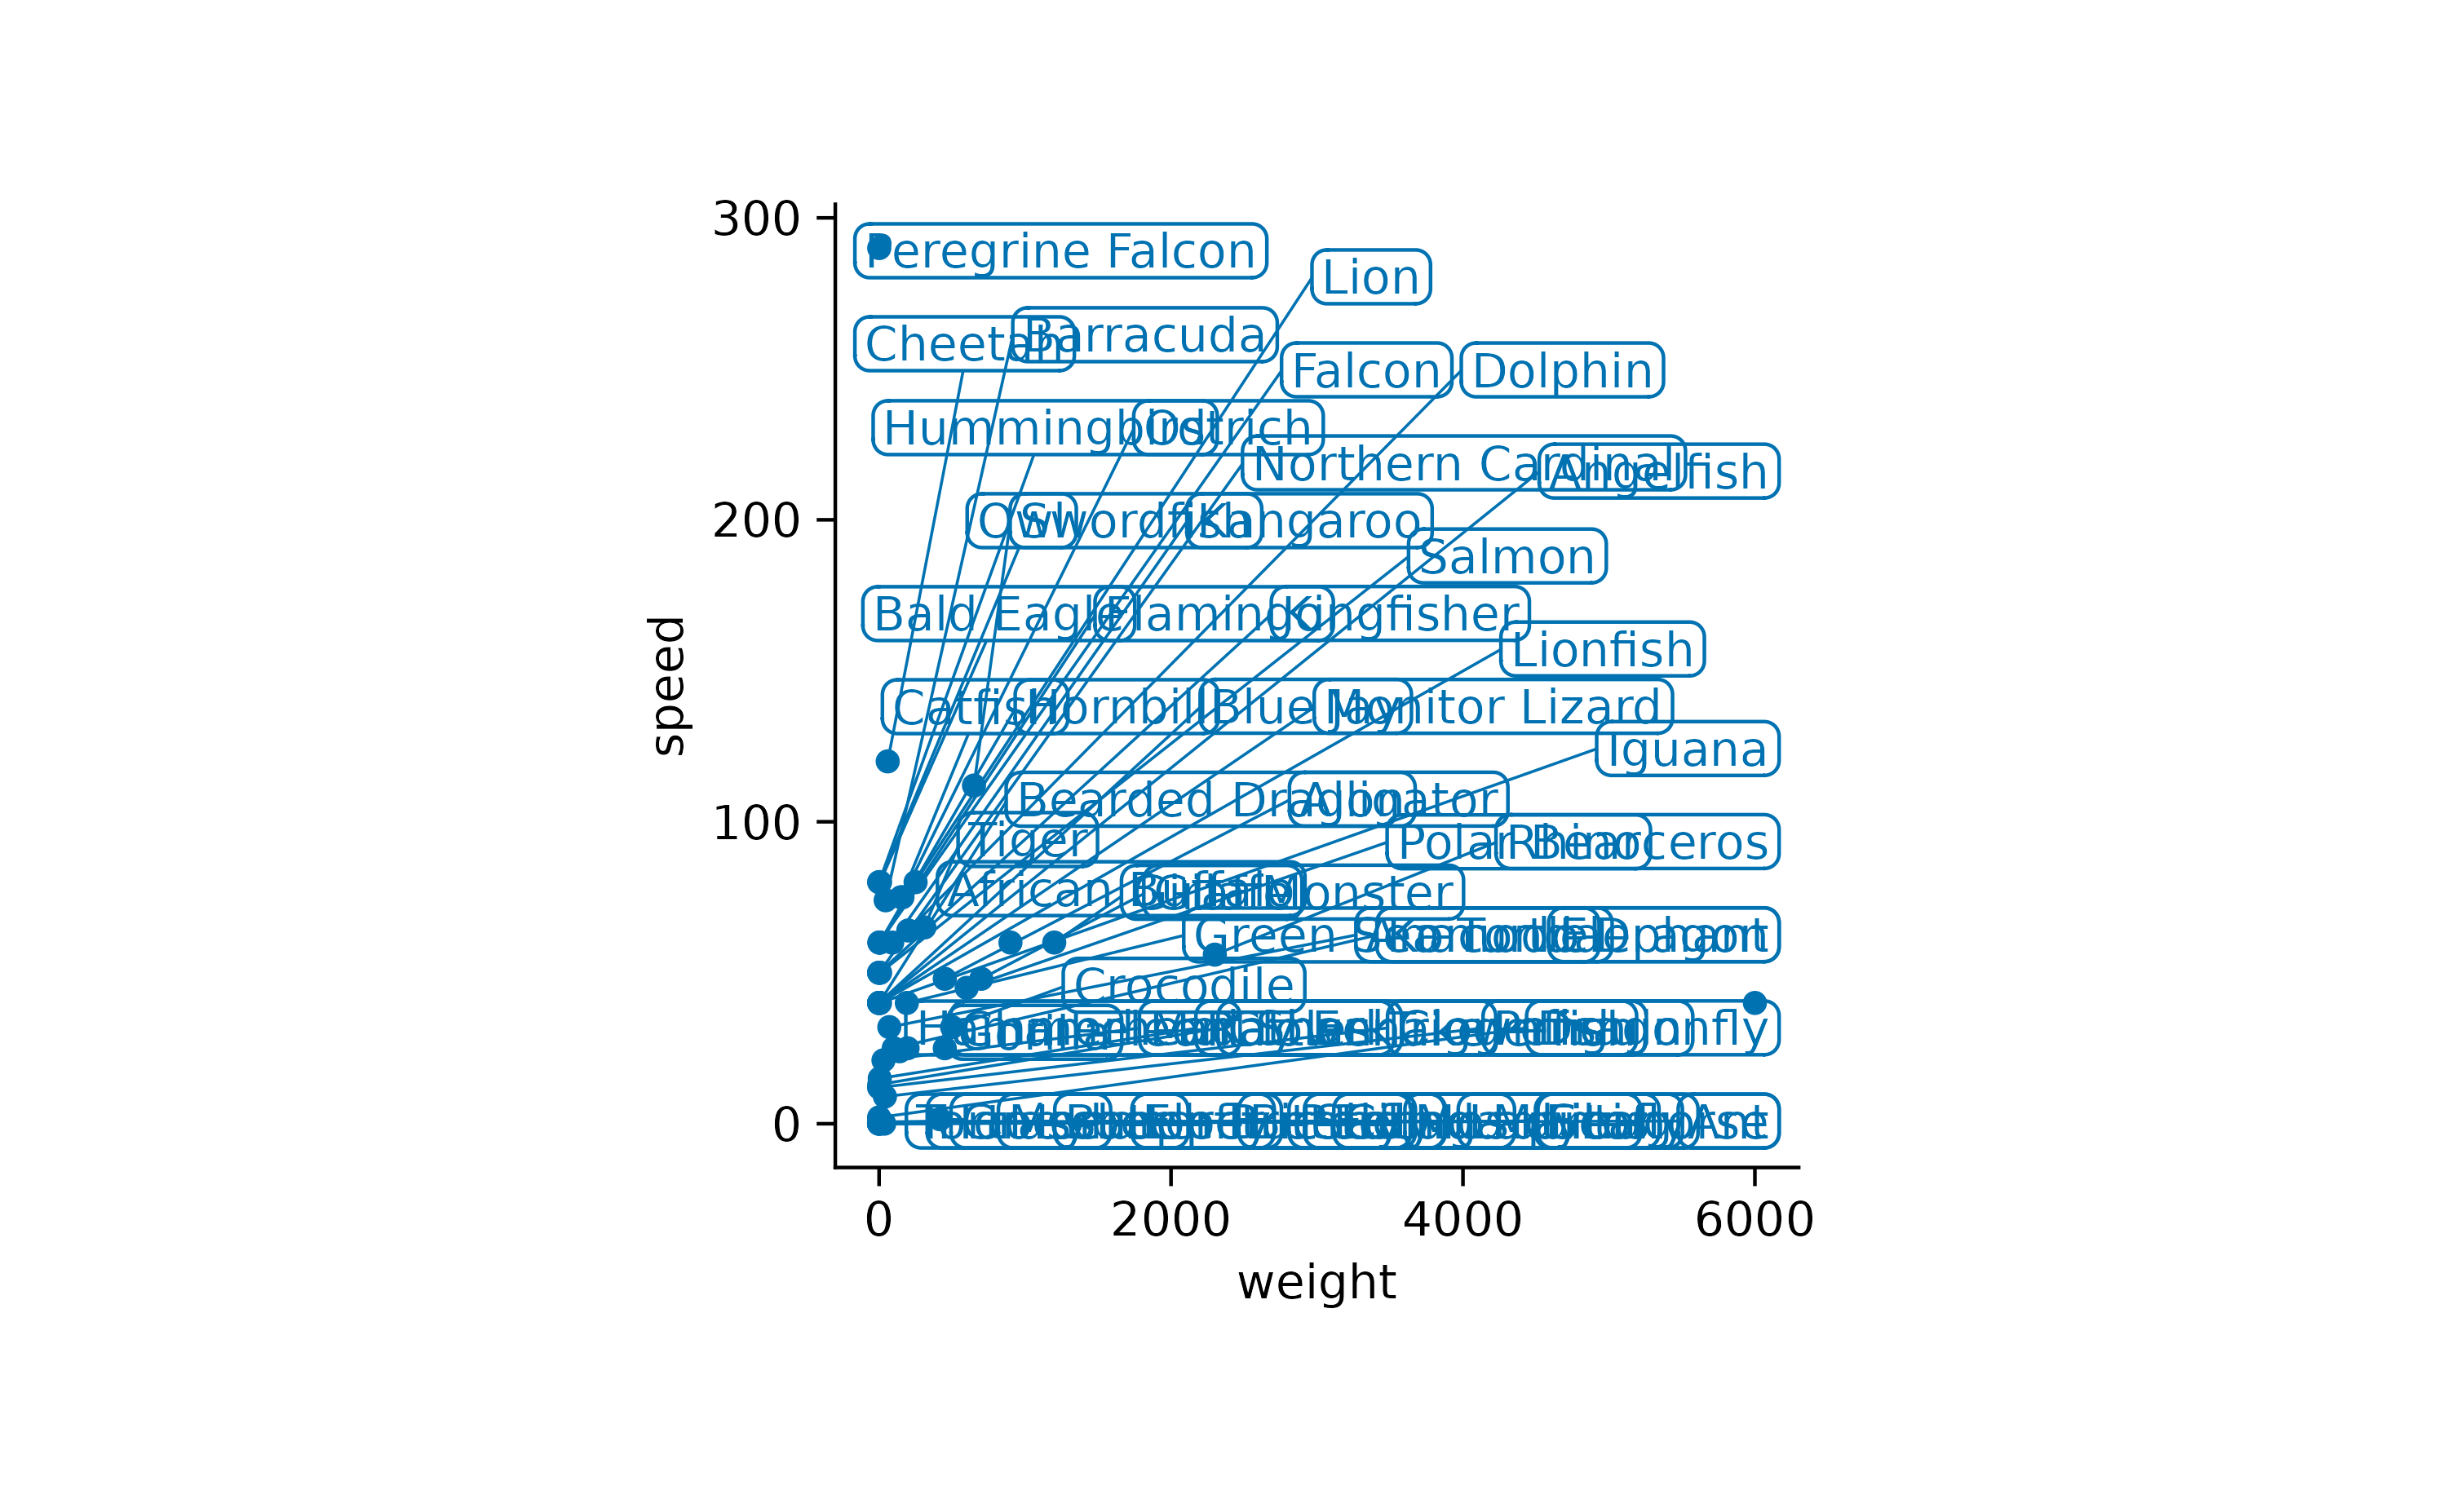
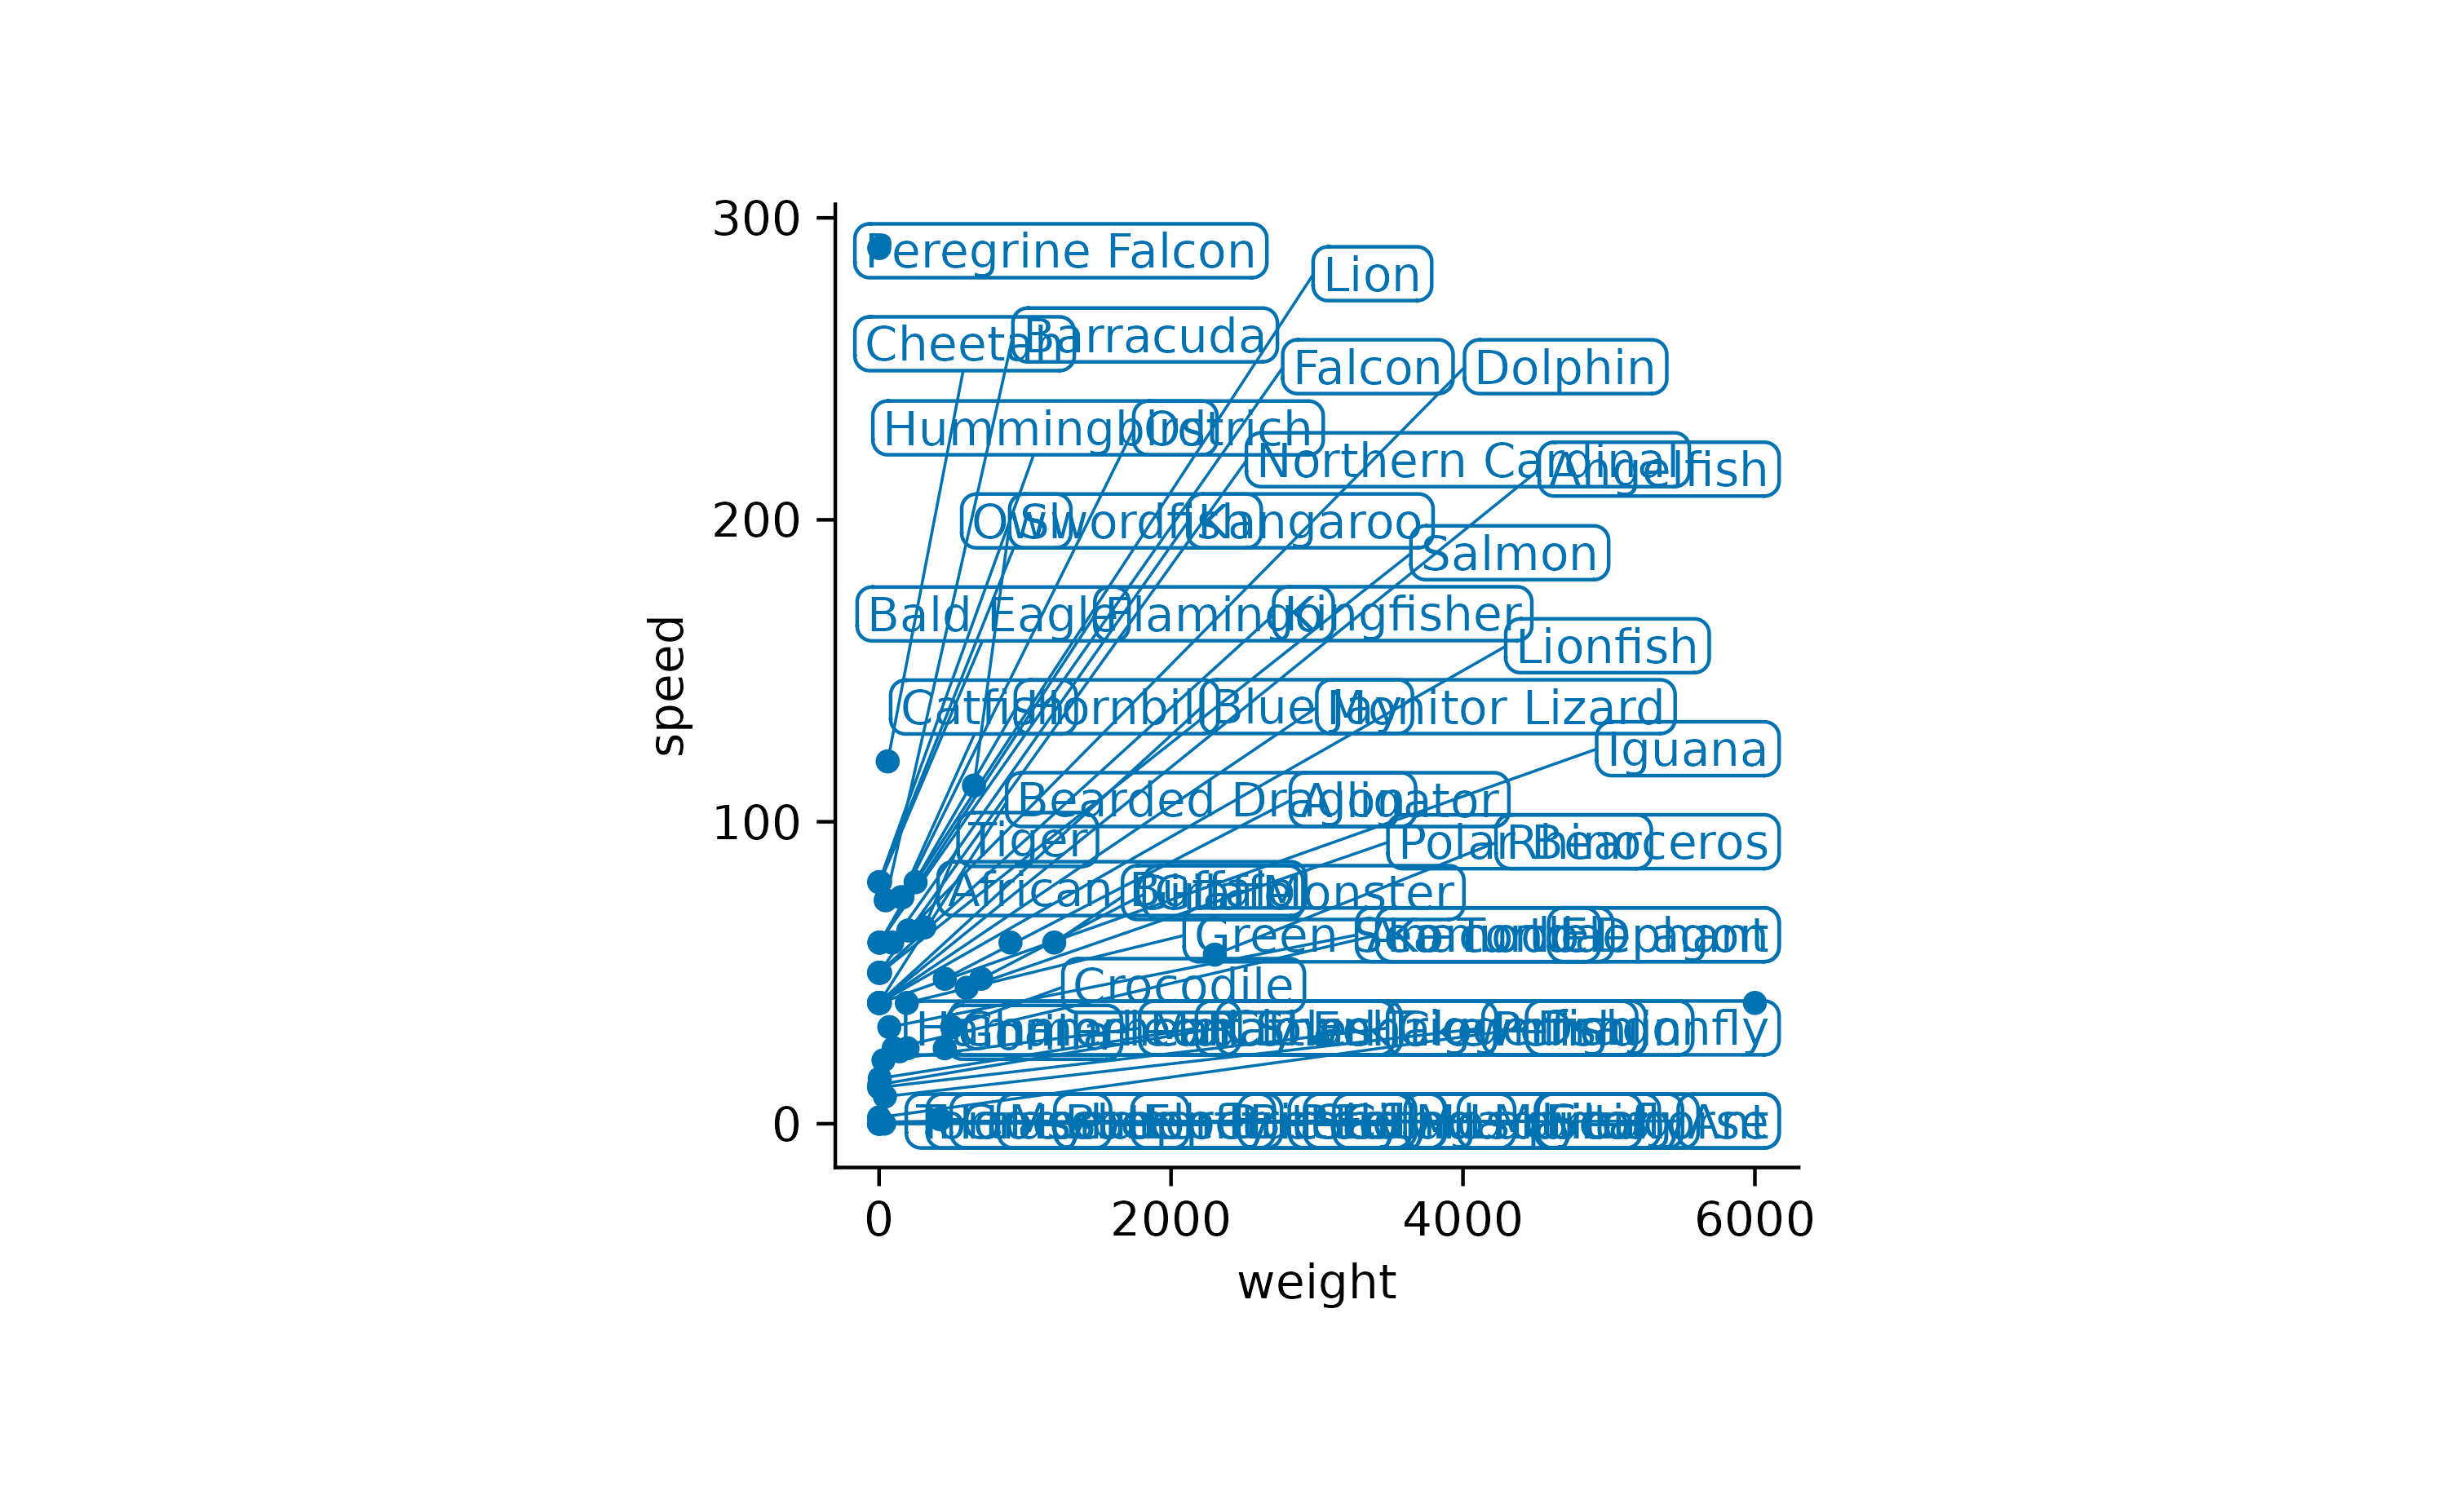
Deploying to gh-pages from @ jbengler/tidyplots@fda22dfed18494ec3f499c1a96aca1cbcc852c1a 🚀

Changed region(s): [[0.341, 0.1537, 0.713, 0.7071], [0.589, 0.6149, 0.62, 0.6456], [0.558, 0.6764, 0.589, 0.7071]]

diff --git a/news/index.html b/news/index.html
@@ -50,6 +50,8 @@
 <div class="section level3">
 <h3 id="bug-fixes-development-version">Bug fixes<a class="anchor" aria-label="anchor" href="#bug-fixes-development-version"></a></h3>
 <ul><li>Color saturation now persist multiple <code><a href="../reference/adjust_colors.html">adjust_colors()</a></code> calls (<a href="https://github.com/jbengler/tidyplots/issues/171" class="external-link">#171</a>).</li>
+<li>
+<code><a href="../reference/adjust_legend_title.html">adjust_legend_title()</a></code> now works across all mapped aesthetics (<a href="https://github.com/jbengler/tidyplots/issues/163" class="external-link">#163</a>).</li>
 </ul></div>
 </div>
     <div class="section level2">

diff --git a/news/index.md b/news/index.md
@@ -24,6 +24,9 @@
 - Color saturation now persist multiple
   [`adjust_colors()`](https://jbengler.github.io/tidyplots/reference/adjust_colors.md)
   calls ([\#171](https://github.com/jbengler/tidyplots/issues/171)).
+- [`adjust_legend_title()`](https://jbengler.github.io/tidyplots/reference/adjust_legend_title.md)
+  now works across all mapped aesthetics
+  ([\#163](https://github.com/jbengler/tidyplots/issues/163)).
 
 ## tidyplots 0.4.0
 